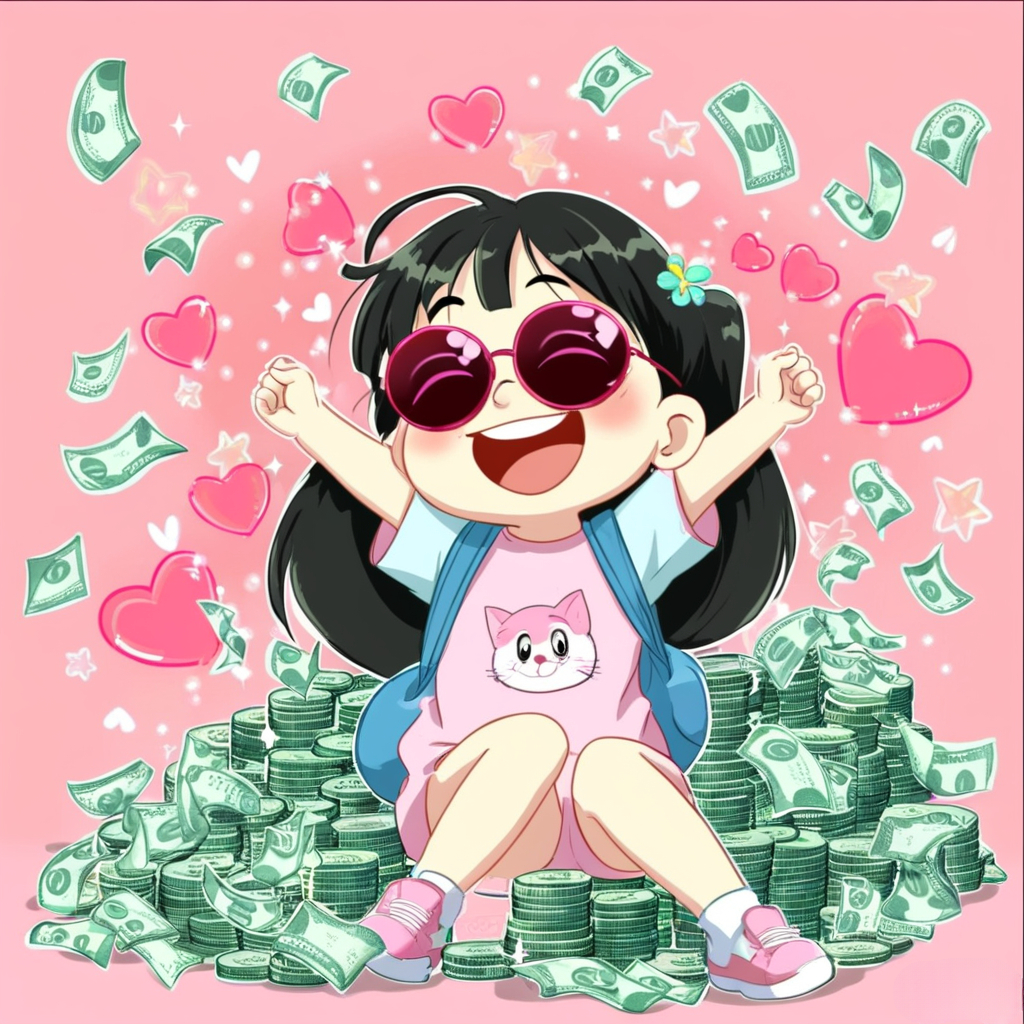
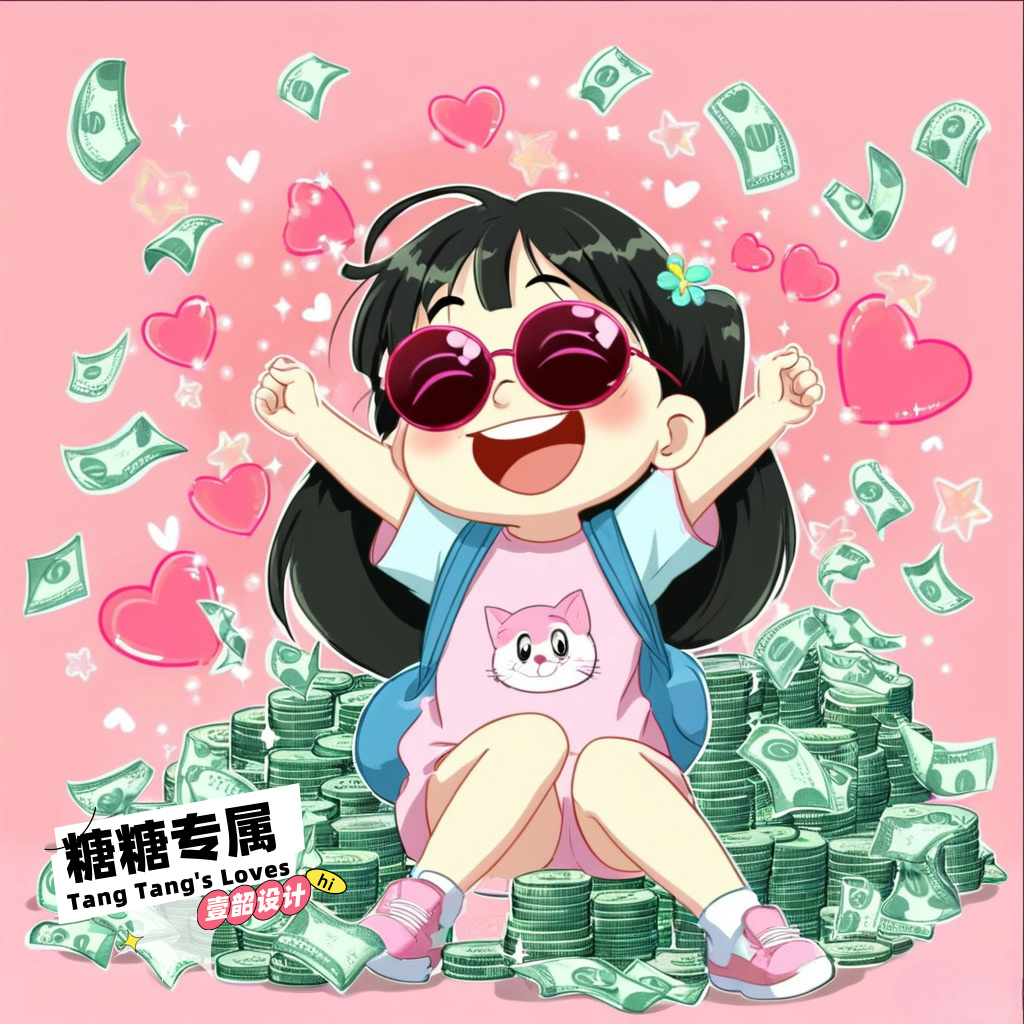
Update

Changed region(s): [[0.0312, 0.75, 0.3438, 0.9688]]

diff --git a/index.html b/index.html
@@ -80,6 +80,14 @@
                     </div>
                 </a>
 
+                <a href="room.html?id=142903999">
+                    <div class="card">
+                        <span class="badge">音乐</span>
+                        <img src="assets/rooms/142903999.jpg?ver=1.0" alt="糖糖专属">
+                        <div class="card-title">糖糖专属</div>
+                    </div>
+                </a>
+
             </div>
 
     </div>
